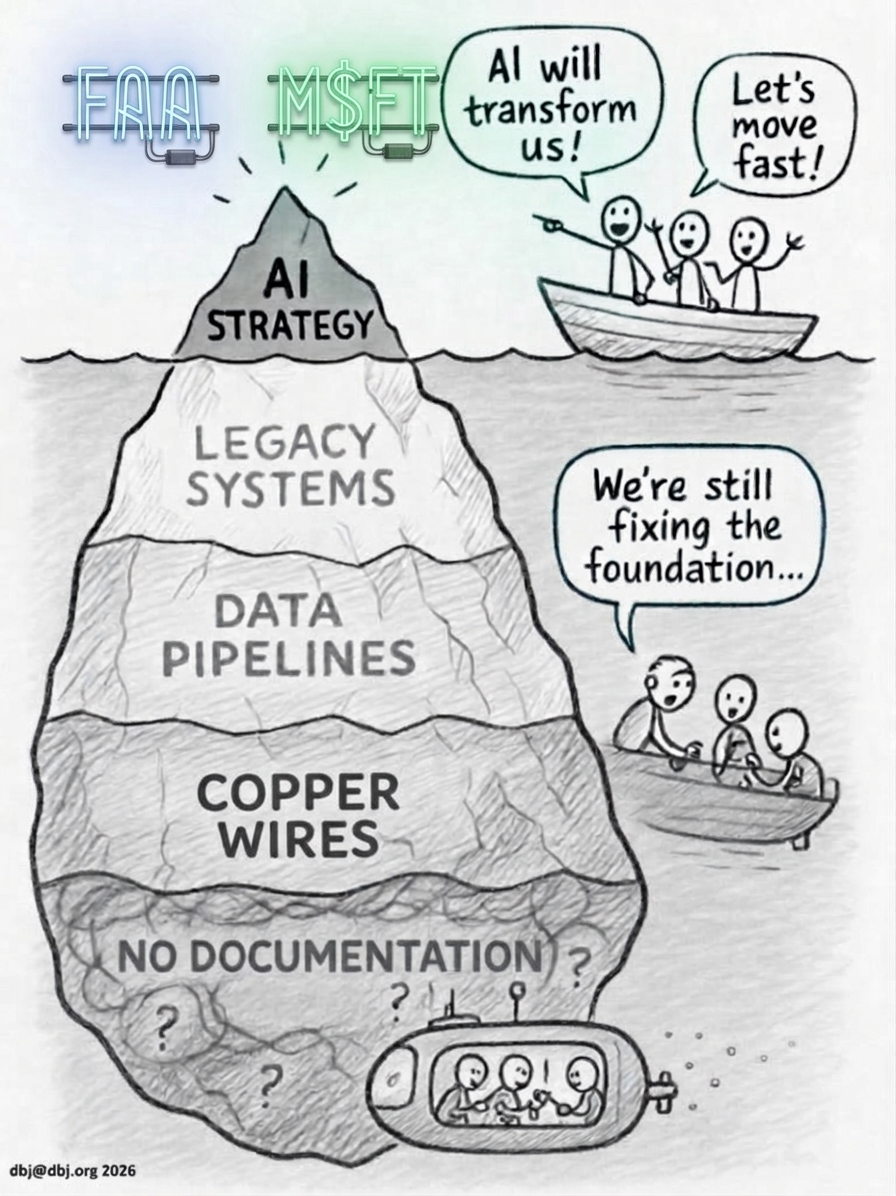
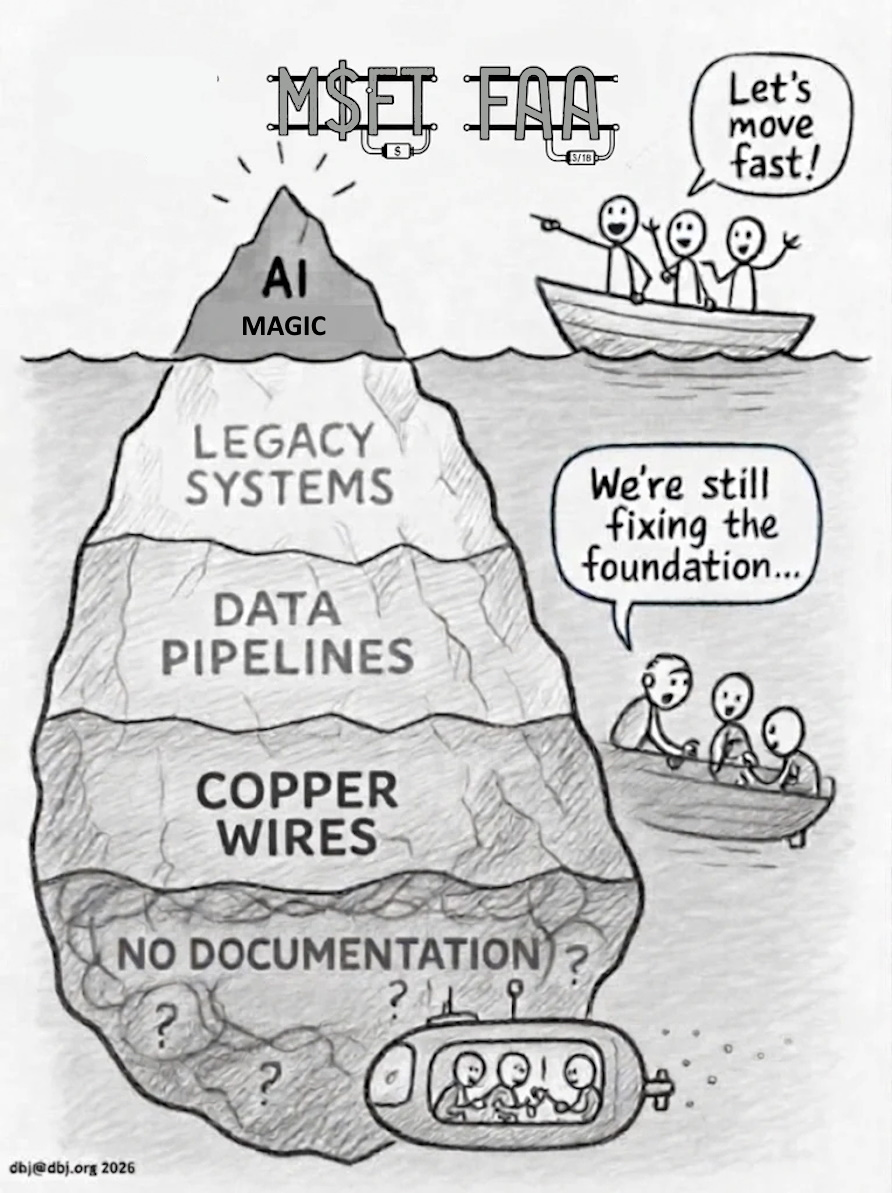
updated

diff --git a/content/posts/bpt-one-pager/index.md b/content/posts/bpt-one-pager/index.md
@@ -31,7 +31,7 @@ Adopters are not buying a framework. They are buying a blueprint of how the comp
 
 AI is an very fast business arena. Players have to be well trained, before they enter. The DBJ Method does not suggest these two steps; it mandates them. This is where most organisations will choke.
 
-*   **Step 1: [DBJ CMM L5](https://method.dbj.org/cmm/dbj_cmm.html#levels). The hard stop.** Nothing happens inside BPT before L5 pass card: no delivery, no ADM wheel, no AI. There is no lower gate. What is measured is the maturity of the people involved: a team's maturity is the sum of its people's, and Organisation Maturity is the sum of its domain teams'. The business should wait, not push the teams too soon into the arena. In a world addicted to the "feature factory", telling a CEO "we pause feature delivery until our people are mature enough" is career suicide. But it is the only way to cure the legacy mess. You cannot deliver while panicking around technical debt.
+*   **Step 1: [DBJ CMM L3](https://method.dbj.org/cmm/dbj_cmm.html#levels). The required entry.** Nothing happens inside BPT before L3 pass card: no delivery, no ADM wheel, no AI. That is the lowest gate. What is measured is the maturity of the people involved: a team's maturity is the sum of its people's, and Organisation Maturity is the sum of its domain teams'. The business should wait, not push the teams too soon into the arena. In a world addicted to the "feature factory", telling a CEO "we pause feature delivery until our people are mature enough" is career suicide. But it is the only way to cure the legacy mess. You cannot deliver while panicking around technical debt.
 *   **Step 2: The BPT Loop.** Once the people are holding the L5 pass card, the [B ↔ P ↔ T loop](https://method.dbj.org/bpt/bpt_operating_model.html) is unleashed in the organization. Nobody argues about *how* things fit together; that is already decided and written down. Delivery becomes almost mechanical execution inside a safe loop. Perfect for high-speed, AI-enabled delivery of Products.
 
 ### 3. B-P-T: one loop
